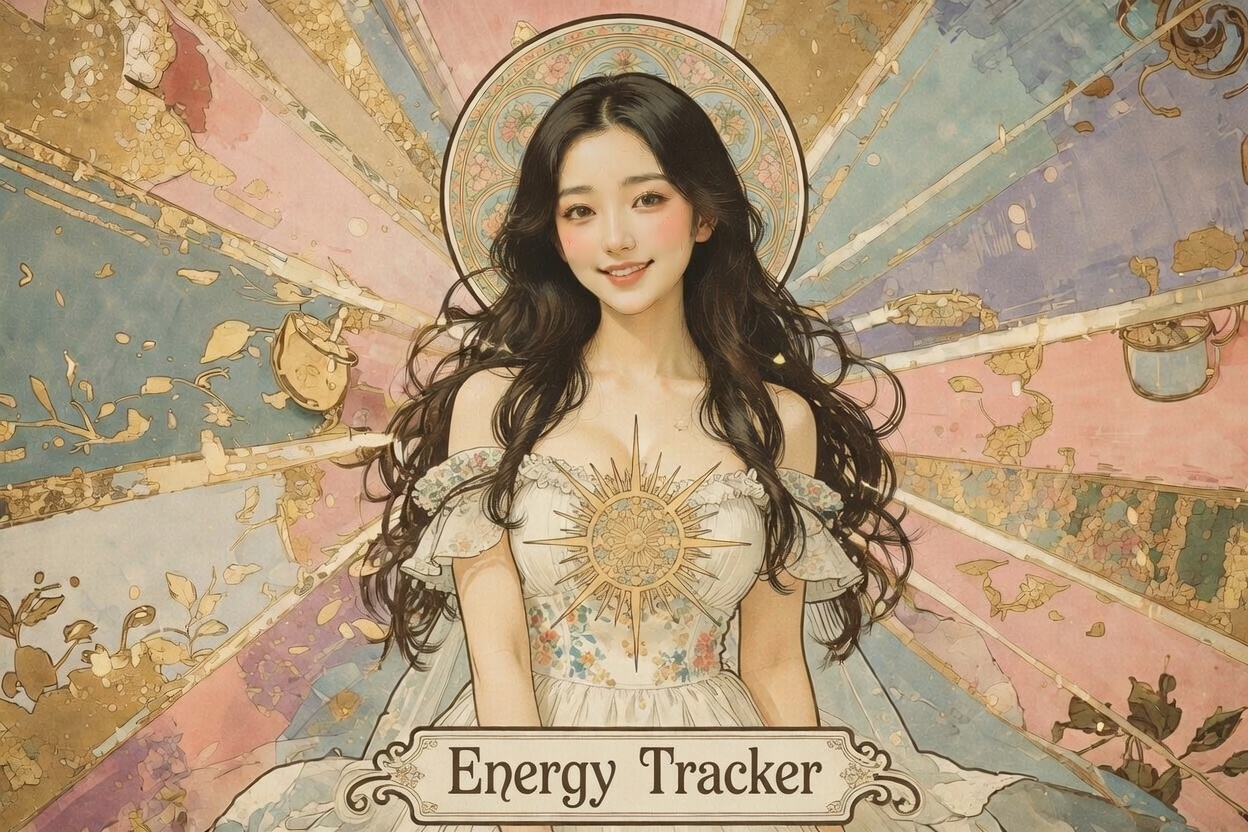
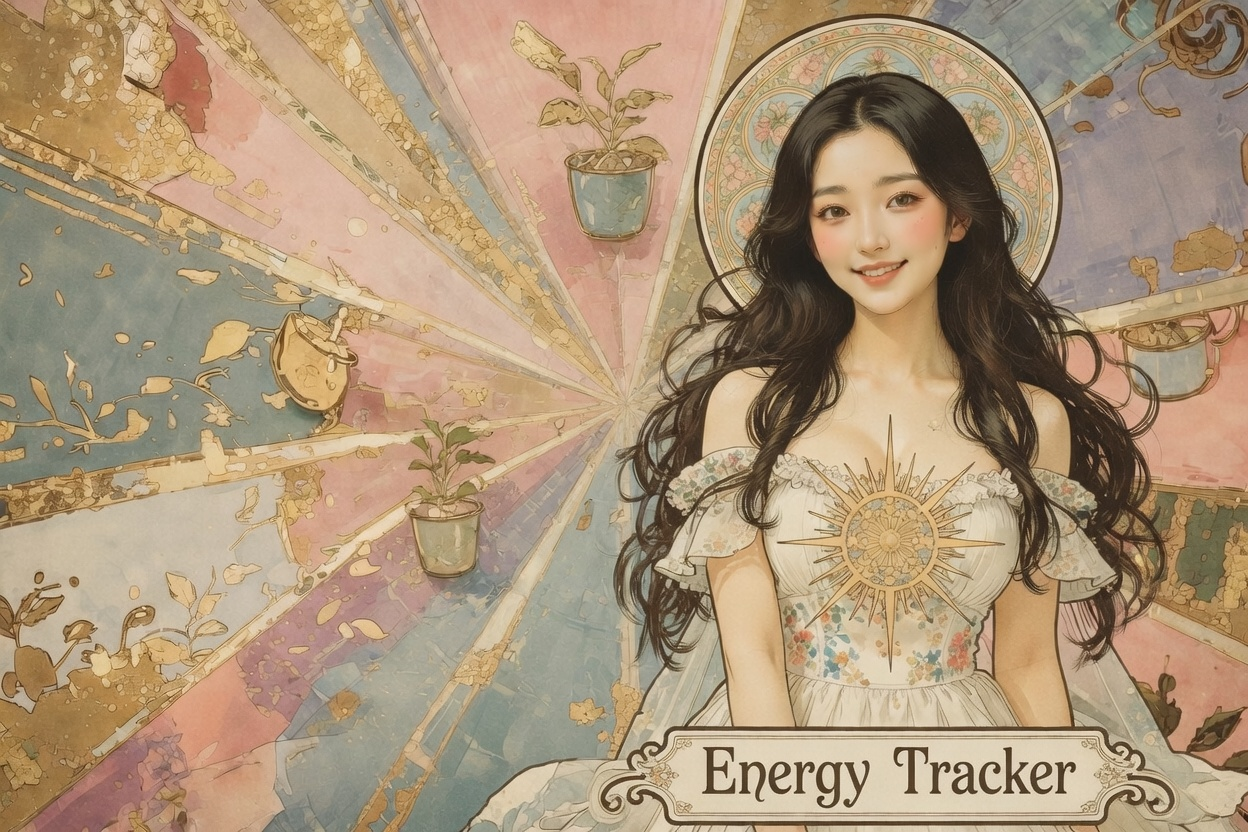
Replace female BG (3rd) with new art nouveau character; restore original bg-hero.png

diff --git a/app.js b/app.js
@@ -1230,9 +1230,9 @@ function playLevelUp() {
 // ========== BACKGROUND TOGGLE ==========
 
 const BG_STYLES = [
-  'linear-gradient(135deg, rgba(10,10,20,0.55), rgba(20,10,30,0.45)), url(\'./bg-hero.png\') center right/cover no-repeat',
+  'linear-gradient(135deg, rgba(20,30,10,0.6), rgba(40,60,10,0.5)), url(\'./bg-hero.png\') center right/cover no-repeat',
   'linear-gradient(135deg, rgba(20,30,10,0.6), rgba(40,60,10,0.5)), url(\'./bg-hero-male.jpg\') center right/cover no-repeat',
-  'linear-gradient(135deg, rgba(20,10,15,0.45), rgba(60,20,40,0.35)), url(\'./bg-hero-female.jpg\') center top/cover no-repeat',
+  'linear-gradient(135deg, rgba(10,10,20,0.52), rgba(20,10,30,0.42)), url(\'./bg-hero-female.jpg\') center right/cover no-repeat',
   'linear-gradient(135deg, #1a2e0a, #2d4a10)',
 ];
 
